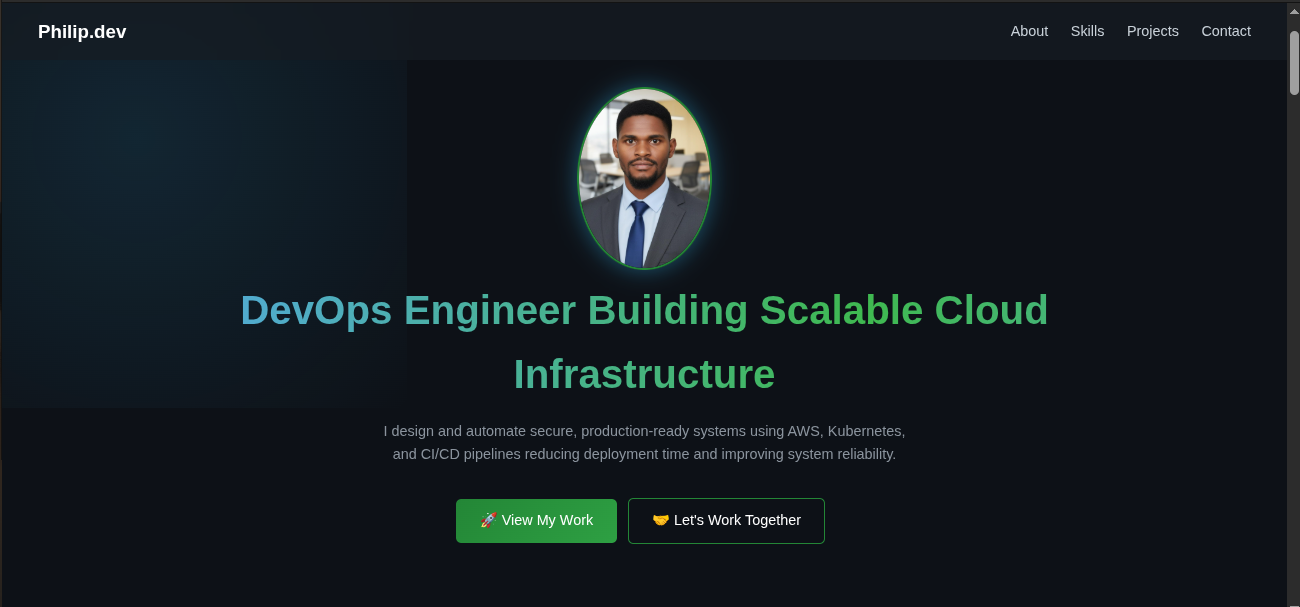
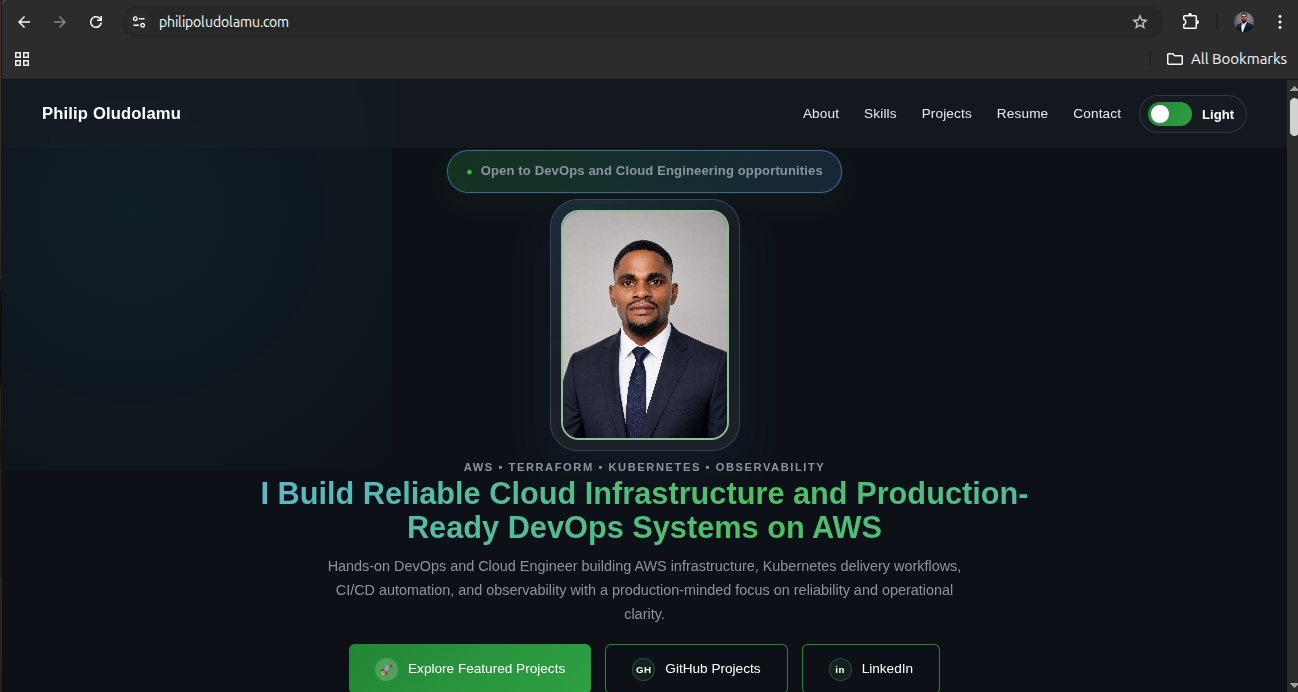
Update portfolio social preview metadata and OG image

diff --git a/index.html b/index.html
@@ -33,7 +33,7 @@
     <meta property="og:url" content="https://philipoludolamu.com">
 
     <meta property="og:image"
-        content="https://philipoludolamu.com/assets/portfolio-devops-website.png">
+        content="https://philipoludolamu.com/assets/portfolio-devops-website.png?v=2">
     <meta property="og:image:alt" content="Production-ready DevOps portfolio homepage for Philip Oludolamu">
 
     <meta property="og:site_name" content="Philip Oludolamu Portfolio">
@@ -48,7 +48,7 @@
         content="AWS, Terraform, Kubernetes, CI/CD automation, observability, and production-style platform engineering projects.">
 
     <meta name="twitter:image"
-        content="https://philipoludolamu.com/assets/portfolio-devops-website.png">
+        content="https://philipoludolamu.com/assets/portfolio-devops-website.png?v=2">
     <meta name="twitter:image:alt" content="Production-ready DevOps portfolio homepage for Philip Oludolamu">
 
     <!-- TITLE -->
